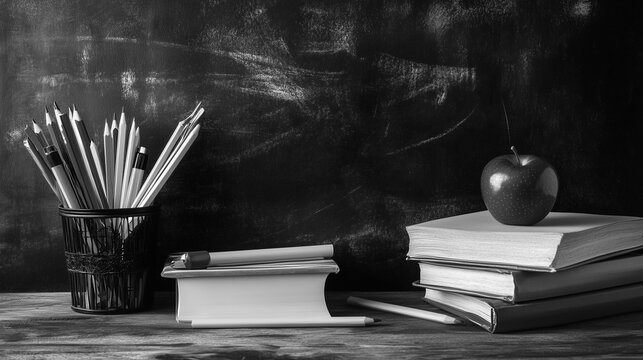
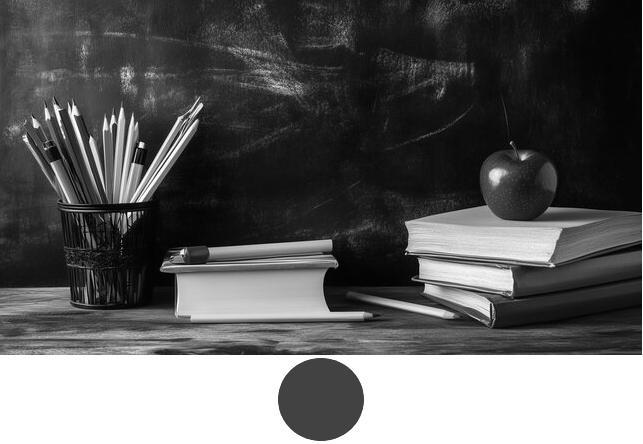
finished level 5

diff --git a/main.py b/main.py
@@ -18,7 +18,7 @@ BG_COLOR = (28, 170, 156)
 LEVEL_3_IMAGE_WIDTH, LEVEL_3_IMAGE_HEIGHT = 992/3, 985/3
 BIG_CLUE_BOX_WIDTH = 0.8 * WIDTH # 46 max characters
 SMALL_CLUE_BOX_WIDTH = 0.2 * WIDTH # 9 max characters
-LEVEL_5_IMAGE_WIDTH, LEVEL_5_IMAGE_HEIGHT = 643, 360
+LEVEL_5_IMAGE_WIDTH, LEVEL_5_IMAGE_HEIGHT = 643, 444
 
 # Images
 wrong_image = pygame.image.load("Red_X.svg.png")
@@ -33,7 +33,7 @@ lvl5_image = pygame.image.load("level_5.png")
 lvl5_image = pygame.transform.scale(lvl5_image, (LEVEL_5_IMAGE_WIDTH, LEVEL_5_IMAGE_HEIGHT))
 
 # User info
-levels_unlocked = [1, 2, 3, 4]
+levels_unlocked = [1]
 
 # screen info
 screen = pygame.display.set_mode((WIDTH, HEIGHT))
@@ -219,7 +219,7 @@ def level_4():
     screen.fill(BG_COLOR)
 
     clue_text = [
-        "-- .- ... ... .. ...-",
+        "-- .- ... ... .. ...- .",
         "Decipher this morse code!"
     ]
     user_input = handle_user_input(clue_text, SMALL_CLUE_BOX_WIDTH)
@@ -240,7 +240,7 @@ def level_5():
             if event.key == pygame.K_ESCAPE:
                 set_screen_state('main_menu')
     
-    user_input = handle_user_input(["What is this color according to the gray scale image?"], SMALL_CLUE_BOX_WIDTH, lvl5_image, 0.8*HEIGHT, LEVEL_5_IMAGE_WIDTH, LEVEL_5_IMAGE_HEIGHT)
+    user_input = handle_user_input(["What is this color according to the gray scale image?"], SMALL_CLUE_BOX_WIDTH, lvl5_image, 0.9*HEIGHT, LEVEL_5_IMAGE_WIDTH, LEVEL_5_IMAGE_HEIGHT)
     if user_input.upper() == "RED":
         popup(right_image, 1000)
         unlock_level(6)
